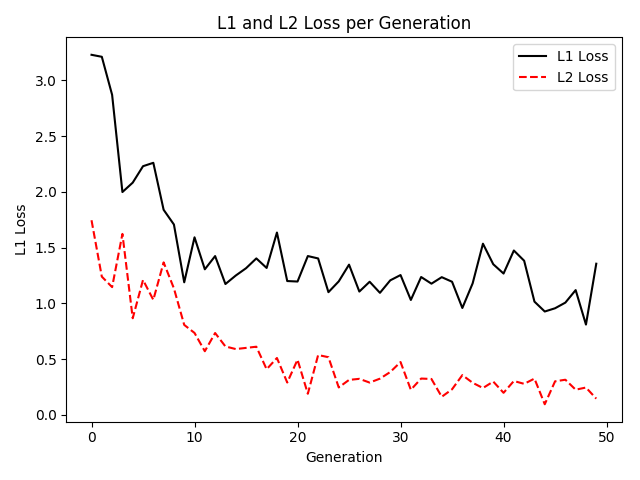
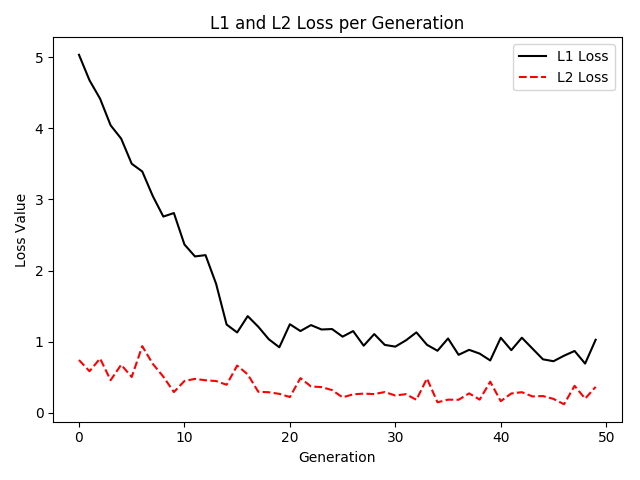
Modified the Y label of result plot in 3.4.

diff --git a/Chapter3/3.4_LossFunctionInLinearRegression.py b/Chapter3/3.4_LossFunctionInLinearRegression.py
@@ -24,7 +24,7 @@ x_vals = np.array([x[3] for x in iris.data])
 y_vals = np.array([y[0] for y in iris.data])
 
 #Declare the learning rate, batch size, placeholders, and variables
-learning_rate = 0.4
+learning_rate = 0.1
 batch_size = 25
 iterations = 50
 x_data = tf.placeholder(shape=[None, 1], dtype=tf.float32)
@@ -79,6 +79,6 @@ plt.plot(loss_vec_l1, 'k-', label='L1 Loss')
 plt.plot(loss_vec_l2, 'r--', label='L2 Loss')
 plt.title('L1 and L2 Loss per Generation')
 plt.xlabel('Generation')
-plt.ylabel('L1 Loss')
+plt.ylabel('Loss Value')
 plt.legend(loc='upper right')
 plt.show()
